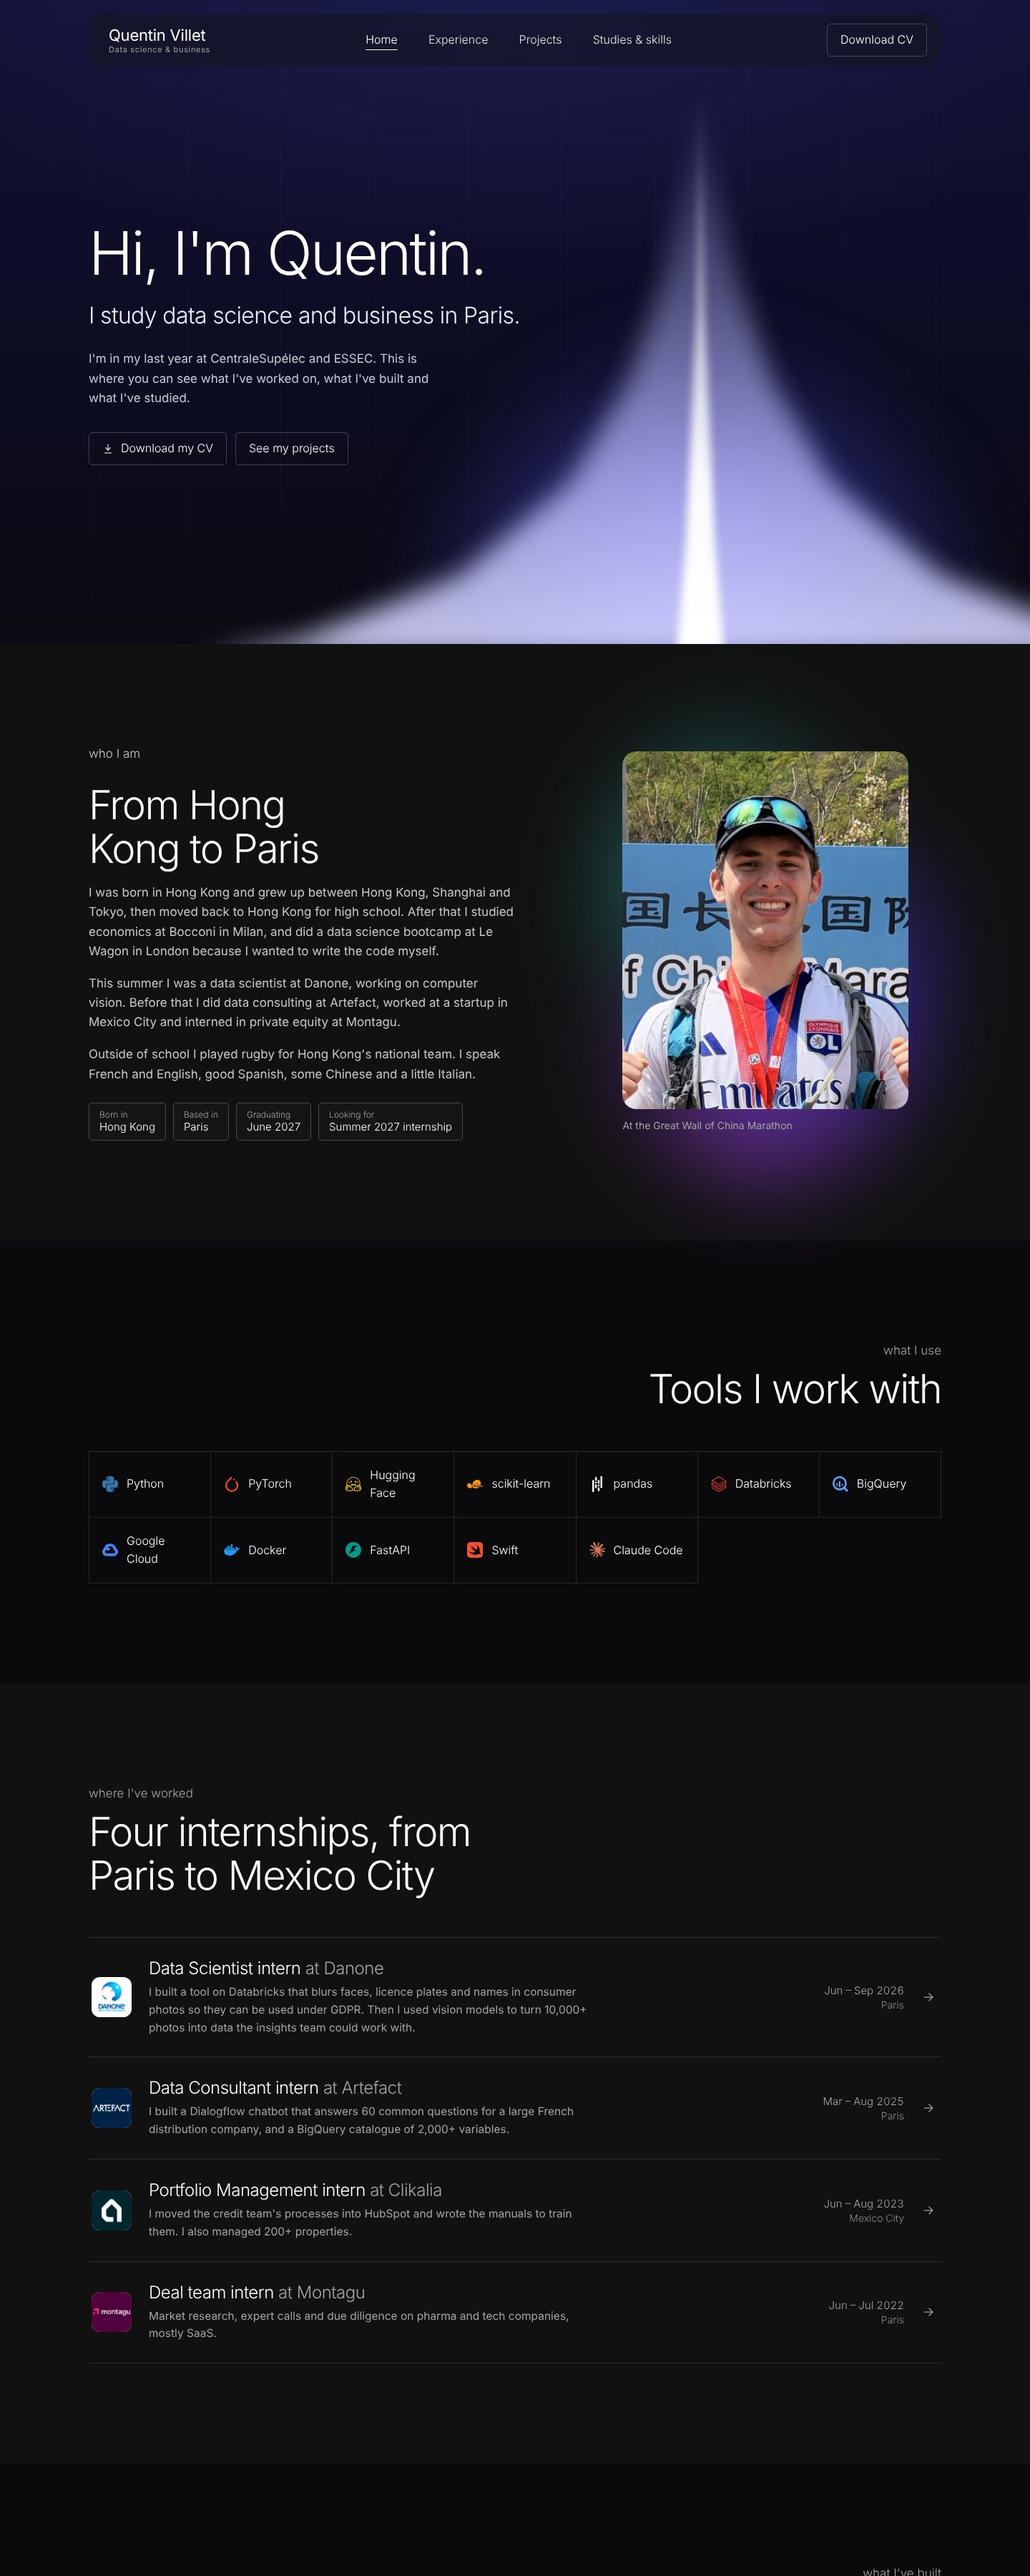
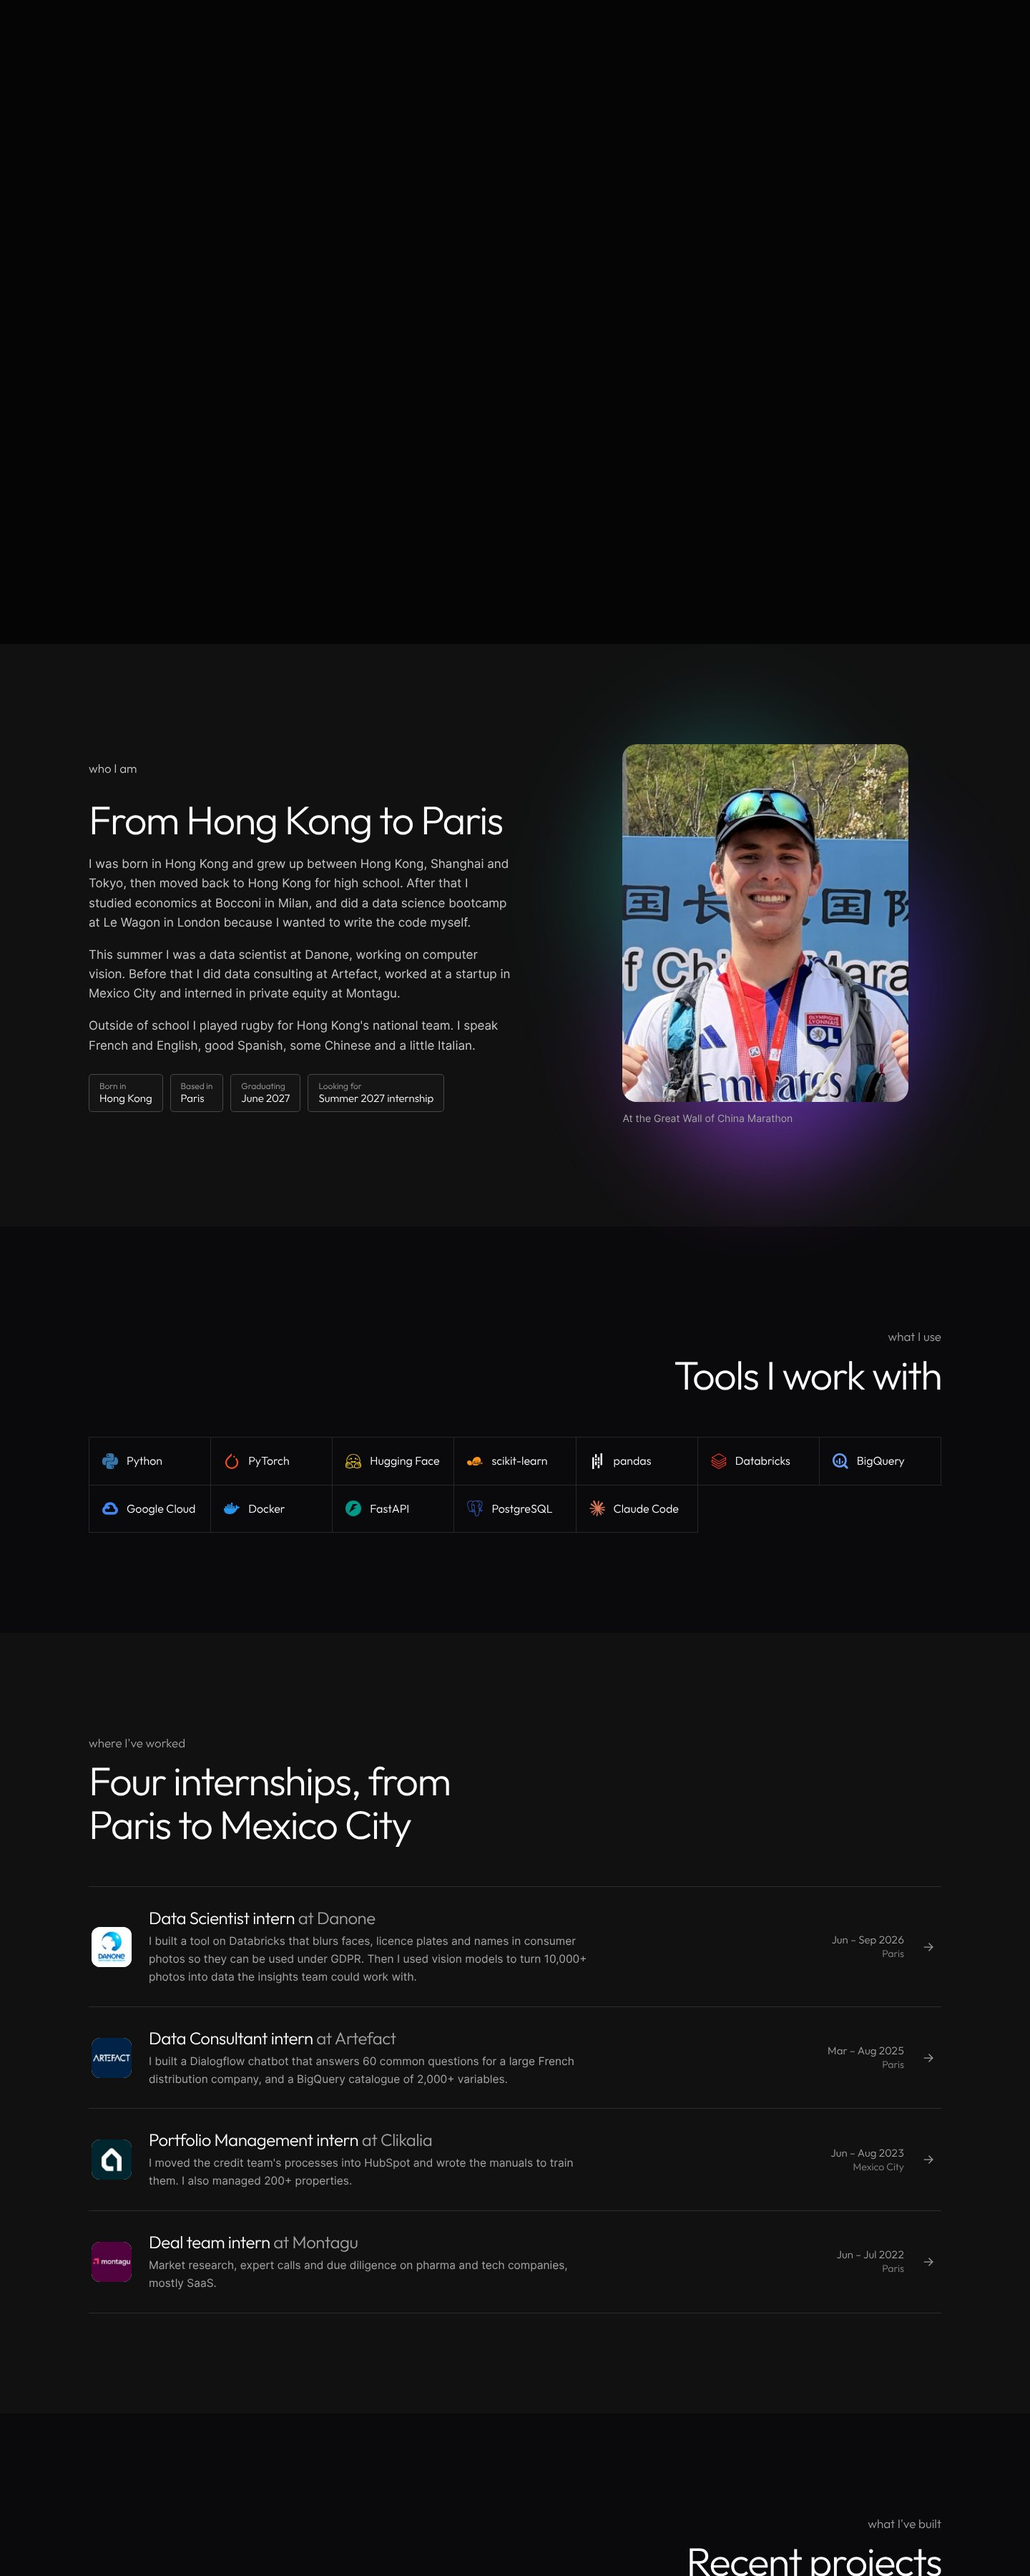
Remove Swift and the design skills from the skills list
Claude-Session: https://claude.ai/code/session_01MPLUvTshHebHFEnJcHwArP

diff --git a/studies.html b/studies.html
@@ -37,15 +37,9 @@
 </div></section>
 <section class="sec alt"><div class="wrap skillsets">
   <div class="head right" style="margin-bottom:0"><p class="label">what I can do</p><h2>Skills</h2></div>
-  <div><h3>Programming</h3><div class="tools"><div class="tool"><span data-icon="python"></span>Python</div><div class="tool">SQL</div><div class="tool"><span data-icon="cplusplus"></span>C++</div><div class="tool"><span data-icon="r"></span>R</div><div class="tool"><span data-icon="swift"></span>Swift</div><div class="tool">Stata</div></div></div>
-  <div><h3>Machine learning</h3><div class="tools"><div class="tool"><span data-icon="pytorch"></span>PyTorch</div><div class="tool"><span data-icon="tensorflow"></span>TensorFlow</div><div class="tool"><span data-icon="scikitlearn"></span>scikit-learn</div><div class="tool"><span data-icon="huggingface"></span>Hugging Face</div><div class="tool"><span data-icon="opencv"></span>OpenCV</div><div class="tool"><span data-icon="ollama"></span>Ollama</div><div class="tool"><span data-icon="pandas"></span>pandas</div><div class="tool"><span data-icon="numpy"></span>NumPy</div></div></div>
+  <div><h3>Programming</h3><div class="tools"><div class="tool"><span data-icon="python"></span>Python</div><div class="tool">SQL</div><div class="tool"><span data-icon="cplusplus"></span>C++</div><div class="tool"><span data-icon="r"></span>R</div><div class="tool">Stata</div></div></div>
+  <div><h3>Machine learning</h3><div class="tools"><div class="tool"><span data-icon="pytorch"></span>PyTorch</div><div class="tool"><span data-icon="tensorflow"></span>TensorFlow</div><div class="tool"><span data-icon="scikitlearn"></span>scikit-learn</div><div class="tool"><span data-icon="huggingface"></span>Hugging Face</div><div class="tool"><span data-icon="opencv"></span>OpenCV</div><div class="tool"><span data-icon="ollama"></span>Ollama</div><div class="tool"><span data-icon="pandas"></span>pandas</div><div class="tool"><span data-icon="numpy"></span>NumPy</div><div class="tool"><span data-icon="claude"></span>Claude Code</div></div></div>
   <div><h3>Data and cloud</h3><div class="tools"><div class="tool"><span data-icon="databricks"></span>Databricks</div><div class="tool"><span data-icon="googlebigquery"></span>BigQuery</div><div class="tool"><span data-icon="googlecloud"></span>Google Cloud</div><div class="tool"><span data-icon="postgresql"></span>PostgreSQL</div><div class="tool"><span data-icon="docker"></span>Docker</div><div class="tool"><span data-icon="fastapi"></span>FastAPI</div><div class="tool"><span data-icon="streamlit"></span>Streamlit</div><div class="tool"><span data-icon="looker"></span>Looker Studio</div></div></div>
-  <div><h3>Building with AI</h3><div class="ai">
-    <div><code>Claude Code</code><p>What I use to prototype quickly, including this website.</p></div>
-    <div><code>frontend-design</code><p>For interfaces that don't look like templates.</p></div>
-    <div><code>design-critique</code><p>For honest feedback on a layout before shipping it.</p></div>
-    <div><code>accessibility-review</code><p>For checking contrast and keyboard use.</p></div>
-  </div></div>
 </div></section>
 <section class="sec"><div class="wrap">
   <div class="head"><p class="label">how I talk</p><h2>Languages</h2></div>

diff --git a/index.html b/index.html
@@ -50,7 +50,7 @@
 
 <section class="sec alt"><div class="wrap">
   <div class="head right"><p class="label">what I use</p><h2>Tools I work with</h2></div>
-  <div class="tools"><div class="tool"><span data-icon="python"></span>Python</div><div class="tool"><span data-icon="pytorch"></span>PyTorch</div><div class="tool"><span data-icon="huggingface"></span>Hugging Face</div><div class="tool"><span data-icon="scikitlearn"></span>scikit-learn</div><div class="tool"><span data-icon="pandas"></span>pandas</div><div class="tool"><span data-icon="databricks"></span>Databricks</div><div class="tool"><span data-icon="googlebigquery"></span>BigQuery</div><div class="tool"><span data-icon="googlecloud"></span>Google Cloud</div><div class="tool"><span data-icon="docker"></span>Docker</div><div class="tool"><span data-icon="fastapi"></span>FastAPI</div><div class="tool"><span data-icon="swift"></span>Swift</div><div class="tool"><span data-icon="claude"></span>Claude Code</div></div>
+  <div class="tools"><div class="tool"><span data-icon="python"></span>Python</div><div class="tool"><span data-icon="pytorch"></span>PyTorch</div><div class="tool"><span data-icon="huggingface"></span>Hugging Face</div><div class="tool"><span data-icon="scikitlearn"></span>scikit-learn</div><div class="tool"><span data-icon="pandas"></span>pandas</div><div class="tool"><span data-icon="databricks"></span>Databricks</div><div class="tool"><span data-icon="googlebigquery"></span>BigQuery</div><div class="tool"><span data-icon="googlecloud"></span>Google Cloud</div><div class="tool"><span data-icon="docker"></span>Docker</div><div class="tool"><span data-icon="fastapi"></span>FastAPI</div><div class="tool"><span data-icon="postgresql"></span>PostgreSQL</div><div class="tool"><span data-icon="claude"></span>Claude Code</div></div>
 </div></section>
 
 <section class="sec"><div class="wrap">

diff --git a/build.py b/build.py
@@ -125,7 +125,7 @@ PROJECTS = [
 ]
 TOOLS = [("python", "Python"), ("pytorch", "PyTorch"), ("huggingface", "Hugging Face"), ("scikitlearn", "scikit-learn"),
          ("pandas", "pandas"), ("databricks", "Databricks"), ("googlebigquery", "BigQuery"), ("googlecloud", "Google Cloud"),
-         ("docker", "Docker"), ("fastapi", "FastAPI"), ("swift", "Swift"), ("claude", "Claude Code")]
+         ("docker", "Docker"), ("fastapi", "FastAPI"), ("postgresql", "PostgreSQL"), ("claude", "Claude Code")]
 
 
 def logo(item, up="", cls="logo"):
@@ -352,15 +352,9 @@ studies = f"""
 </div></section>
 <section class="sec alt"><div class="wrap skillsets">
   <div class="head right" style="margin-bottom:0"><p class="label">what I can do</p><h2>Skills</h2></div>
-  <div><h3>Programming</h3>{tools_grid([("python","Python"),(None,"SQL"),("cplusplus","C++"),("r","R"),("swift","Swift"),(None,"Stata")]).replace('<span data-icon="None"></span>','')}</div>
-  <div><h3>Machine learning</h3>{tools_grid([("pytorch","PyTorch"),("tensorflow","TensorFlow"),("scikitlearn","scikit-learn"),("huggingface","Hugging Face"),("opencv","OpenCV"),("ollama","Ollama"),("pandas","pandas"),("numpy","NumPy")])}</div>
+  <div><h3>Programming</h3>{tools_grid([("python","Python"),(None,"SQL"),("cplusplus","C++"),("r","R"),(None,"Stata")]).replace('<span data-icon="None"></span>','')}</div>
+  <div><h3>Machine learning</h3>{tools_grid([("pytorch","PyTorch"),("tensorflow","TensorFlow"),("scikitlearn","scikit-learn"),("huggingface","Hugging Face"),("opencv","OpenCV"),("ollama","Ollama"),("pandas","pandas"),("numpy","NumPy"),("claude","Claude Code")])}</div>
   <div><h3>Data and cloud</h3>{tools_grid([("databricks","Databricks"),("googlebigquery","BigQuery"),("googlecloud","Google Cloud"),("postgresql","PostgreSQL"),("docker","Docker"),("fastapi","FastAPI"),("streamlit","Streamlit"),("looker","Looker Studio")])}</div>
-  <div><h3>Building with AI</h3><div class="ai">
-    <div><code>Claude Code</code><p>What I use to prototype quickly, including this website.</p></div>
-    <div><code>frontend-design</code><p>For interfaces that don't look like templates.</p></div>
-    <div><code>design-critique</code><p>For honest feedback on a layout before shipping it.</p></div>
-    <div><code>accessibility-review</code><p>For checking contrast and keyboard use.</p></div>
-  </div></div>
 </div></section>
 <section class="sec"><div class="wrap">
   <div class="head"><p class="label">how I talk</p><h2>Languages</h2></div>
